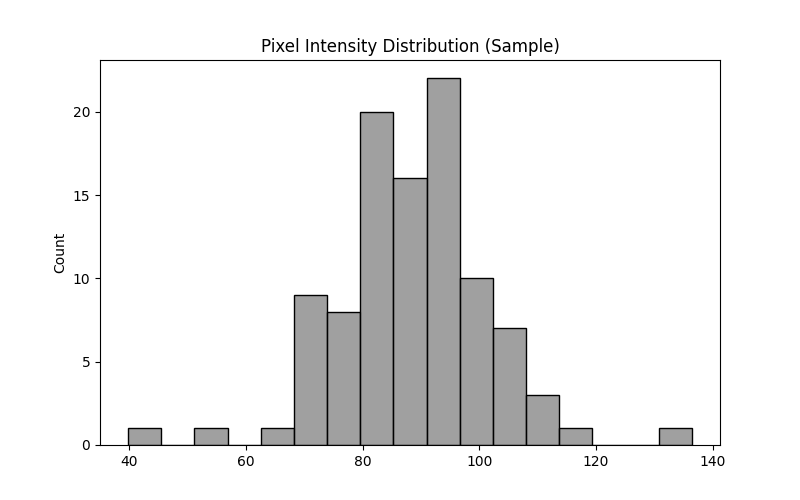
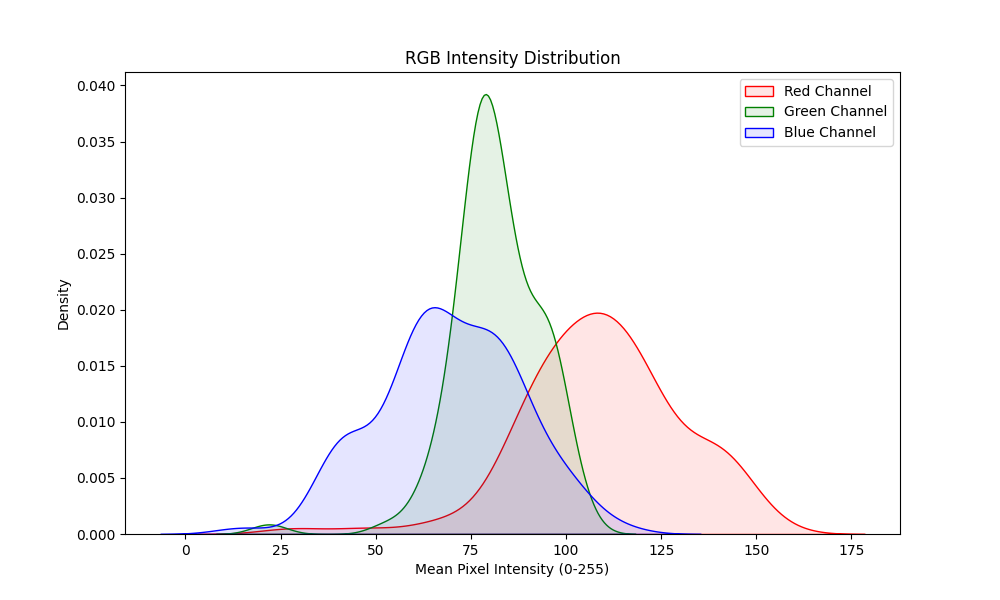
Praktikum Verbesserungen

diff --git a/eda.py b/eda.py
@@ -5,89 +5,84 @@ import seaborn as sns
 from PIL import Image
 import numpy as np
 
-# Verzeichnisse erstellen
-os.makedirs('figures', exist_ok=True)
-
-# Daten laden (Pfade anpassen falls nötig)
-
+# 1. Verzeichnisse und Pfade
 BASE_DIR = os.path.dirname(os.path.abspath(__file__))
 CSV_PATH = os.path.join(BASE_DIR, 'digital_biomass_labels.csv')
 IMG_DIR = os.path.join(BASE_DIR, 'mlops_biomass_data', 'images_med_res')
 FIGURES_DIR = os.path.join(BASE_DIR, 'figures')
-
-# 2. Ordner erstellen
 os.makedirs(FIGURES_DIR, exist_ok=True)
 
-# 3. DANN die Daten laden (mit dem richtigen Pfad-Objekt)
+# 2. Daten laden und reinigen
 df = pd.read_csv(CSV_PATH, decimal=',')
-
 df = df.dropna(subset=['fresh_weight_total'])
 
-# 1. Target distribution
-plt.figure(figsize=(8, 5))
-sns.histplot(df['fresh_weight_total'], kde=True)
-plt.title('Distribution of Fresh Weight Total')
-plt.savefig('figures/target_distribution.png')
+# --- 1. SMART SAMPLES (diverse_samples.png -> jetzt wieder sample_images.png) ---
+# Wir zeigen die gesamte Bandbreite: 2 kleinste, 2 mittlere, 2 größte Pflanzen
+df_sorted = df.sort_values('fresh_weight_total')
+indices = [0, 1, len(df)//2, len(df)//2 + 1, len(df)-2, len(df)-1]
+smart_samples = df_sorted.iloc[indices]
 
-# 2. Sample images grid
-fig, axes = plt.subplots(2, 3, figsize=(12, 8))
-samples = df.sample(6)
-for i, (idx, row) in enumerate(samples.iterrows()):
+fig, axes = plt.subplots(2, 3, figsize=(15, 10))
+for i, (idx, row) in enumerate(smart_samples.iterrows()):
     ax = axes[i//3, i%3]
-    img = Image.open(os.path.join(IMG_DIR, row['filename']))
-    ax.imshow(img)
-    ax.set_title(f"Weight: {row['fresh_weight_total']}")
+    img_path = os.path.join(IMG_DIR, row['filename'])
+    if os.path.exists(img_path):
+        img = Image.open(img_path)
+        ax.imshow(img)
+        # Beschriftung zeigt die Kategorie für den besseren Überblick
+        cat = 'Small' if i < 2 else 'Medium' if i < 4 else 'Large'
+        ax.set_title(f"Weight: {row['fresh_weight_total']:.4f}\n({cat})")
     ax.axis('off')
 plt.tight_layout()
-plt.savefig('figures/sample_images.png')
+plt.savefig(os.path.join(FIGURES_DIR, 'sample_images.png'))
 
-# 3. Metadata correlations
-#plt.figure(figsize=(8, 6))
-#sns.heatmap(df.select_dtypes(include=[np.number]).corr(), annot=True, cmap='coolwarm')
-#plt.title('Correlation Heatmap')
-#plt.savefig('figures/correlation_heatmap.png')
-# 3. Optimierte Correlation Heatmap
-plt.figure(figsize=(12, 10)) # Deutlich größeres Bild
-
-# Nur relevante, numerische Spalten auswählen (IDs und Zeitstempel weglassen)
+# --- 2. TARGET-FOCUSED HEATMAP (correlation_heatmap.png) ---
+# Zeigt nur die Korrelationen mit dem Zielwert (fresh_weight_total)
+plt.figure(figsize=(6, 10))
 relevant_cols = [
     'fresh_weight_total', 'fresh_weight_shoot', 'fresh_weight_root', 
     'height_shoot', 'age_days', 'temperature', 'humidity', 
     'luminancelux', 'total_leaves'
 ]
-
-# Prüfen, welche dieser Spalten tatsächlich in deiner CSV existieren
 existing_cols = [c for c in relevant_cols if c in df.columns]
-corr_matrix = df[existing_cols].corr()
+# Korrelation berechnen und nach Stärke sortieren
+target_corr = df[existing_cols].corr()[['fresh_weight_total']].sort_values(by='fresh_weight_total', ascending=False)
 
-# Heatmap zeichnen
-sns.heatmap(
-    corr_matrix, 
-    annot=True,          # Zahlen anzeigen
-    fmt=".2f",           # Nur 2 Nachkommastellen
-    cmap='coolwarm',     # Schöner Blau-Rot-Kontrast
-    linewidths=0.5,      # Kleine Lücken zwischen den Kästchen
-    annot_kws={"size": 8} # Kleinere Schrift für die Zahlen
-)
-
-plt.title('correlation heatmap', fontsize=15)
-plt.xticks(rotation=45, ha='right') # Labels drehen, damit sie nicht überlappen
+sns.heatmap(target_corr, annot=True, fmt=".2f", cmap='RdYlGn', linewidths=0.5)
+plt.title('Correlation with Total Weight', fontsize=12)
 plt.tight_layout()
 plt.savefig(os.path.join(FIGURES_DIR, 'correlation_heatmap.png'))
-# 4. Temporal analysis
+
+# --- 3. RGB PIXEL ANALYSIS (image_pixel_analysis.png) ---
+# Farbanalyse statt Graustufen
+r_means, g_means, b_means = [], [], []
+for img_name in df.sample(min(100, len(df)))['filename']:
+    img_path = os.path.join(IMG_DIR, img_name)
+    if os.path.exists(img_path):
+        img_np = np.array(Image.open(img_path).convert('RGB'))
+        r_means.append(np.mean(img_np[:,:,0]))
+        g_means.append(np.mean(img_np[:,:,1]))
+        b_means.append(np.mean(img_np[:,:,2]))
+
+plt.figure(figsize=(10, 6))
+sns.kdeplot(r_means, color='red', label='Red Channel', fill=True, alpha=0.1)
+sns.kdeplot(g_means, color='green', label='Green Channel', fill=True, alpha=0.1)
+sns.kdeplot(b_means, color='blue', label='Blue Channel', fill=True, alpha=0.1)
+plt.title('RGB Intensity Distribution')
+plt.xlabel('Mean Pixel Intensity (0-255)')
+plt.ylabel('Density')
+plt.legend()
+plt.savefig(os.path.join(FIGURES_DIR, 'image_pixel_analysis.png'))
+
+# 4. Zusätzliche Standard-Plots (bleiben gleich)
+plt.figure(figsize=(8, 5))
+sns.histplot(df['fresh_weight_total'], kde=True)
+plt.title('Distribution of Fresh Weight Total')
+plt.savefig(os.path.join(FIGURES_DIR, 'target_distribution.png'))
+
 plt.figure(figsize=(8, 5))
 sns.scatterplot(data=df, x='age_days', y='fresh_weight_total')
 plt.title('Biomass vs Age')
-plt.savefig('figures/age_vs_biomass.png')
+plt.savefig(os.path.join(FIGURES_DIR, 'age_vs_biomass.png'))
 
-# 5. Image pixel analysis (Mittlere Helligkeit)
-brightness = []
-for img_name in df.sample(100)['filename']:
-    img = Image.open(os.path.join(IMG_DIR, img_name)).convert('L')
-    brightness.append(np.mean(img))
-plt.figure(figsize=(8, 5))
-sns.histplot(brightness, color='gray')
-plt.title('Pixel Intensity Distribution (Sample)')
-plt.savefig('figures/image_pixel_analysis.png')
-
-print("EDA completed. Plots saved in 'figures/'.")
+print(f"EDA completed. All plots saved in '{FIGURES_DIR}' with original filenames.")

diff --git a/train_model.py b/train_model.py
@@ -31,7 +31,7 @@ logging.basicConfig(filename=LOG_FILE, level=logging.INFO, format='%(asctime)s -
 def get_args():
     parser = argparse.ArgumentParser()
     parser.add_argument('--epochs', type=int, default=3)
-    parser.add_argument('--lr', type=float, default=0.0001)
+    parser.add_argument('--lr', type=float, default=0.000001) #learning rate kleiner gemacht
     parser.add_argument('--batch_size', type=int, default=16)
     return parser.parse_args()
 
@@ -67,6 +67,7 @@ def main():
     # Train-Val Split
     train_df, val_df = train_test_split(df, test_size=0.2, random_state=42)
     
+    #Transform samples into fitting format for ResNet-18
     transform = transforms.Compose([
         transforms.Resize((224, 224)),
         transforms.ToTensor(),
@@ -93,14 +94,28 @@ def main():
     
     print(f"Training startet auf: {device}")
     for epoch in range(args.epochs):
+        # Schaltet das Modell in den Trainings-Modus (wichtig für Layer wie Dropout oder BatchNorm)
         model.train()
         train_loss = 0
+        
+        # Schleife über alle Daten-Pakete (Batches) im Trainings-Set
         for imgs, labels in train_loader:
+            # Daten auf die GPU (falls vorhanden) schieben und Label-Form anpassen (Spalte statt Zeile)
             imgs, labels = imgs.to(device), labels.to(device).unsqueeze(1)
+            
+            # 1. Alte Korrekturhinweise (Gradienten) löschen, damit wir frisch starten
             optimizer.zero_grad()
+            
+            # 2. Forward Pass: Das Modell rät das Gewicht; Criterion (MSE) berechnet den Fehler zum echten Label
             loss = criterion(model(imgs), labels)
+            
+            # 3. Backpropagation: Der Fehler wird rückwärts durch das Netz geleitet ("Wer war schuld?")
             loss.backward()
+            
+            # 4. Optimizer-Schritt: Die Gewichte werden minimal angepasst, um den Fehler zu verringern
             optimizer.step()
+            
+            # Fehlerwert des aktuellen Batches für die Statistik aufsummieren
             train_loss += loss.item()
         
         model.eval()

diff --git a/README.md b/README.md
@@ -17,7 +17,7 @@ git and automated logging.
         By looking at the graph, we can see that the biomass labels are right-skewed.
         This means that we have a high count of lightweight plants, which indicates that they are in an early growing phase.
 
-    2.2 Correlation Heatmap
+    2.2 Correlation Heatmap (1 row)
         Humidity and temperature sensors are redundant. They do not give us new information.
         The total fresh weight correlates positively with the weight of the shoot. It also correlates positively with the 
         age and the total leaves. This is logical and normal.
@@ -56,7 +56,7 @@ git and automated logging.
 
     Loss Function: Mean Squared Error (MSE)
 
-    Learning Rate: 0.0001
+    Learning Rate: 0.0001 (smaller)
 
     Batch Size: 16
 
@@ -106,3 +106,16 @@ git and automated logging.
     4. Run the Model Training
 
         python train_model.py --epochs 3 --lr 0.0001
+
+10. Changes
+
+    README: added photos, automatic pdf
+
+    correlation heatmap: one axe to be fresh_weight only for a better overview
+
+    image pixel analysis: in color for better overview
+
+    sample image: choose different type of samples to see a different situations
+
+    train_model.py: lower learn rate, to see the difference in the training_curve more detailed
+                    depending on the operating device, more epoches
